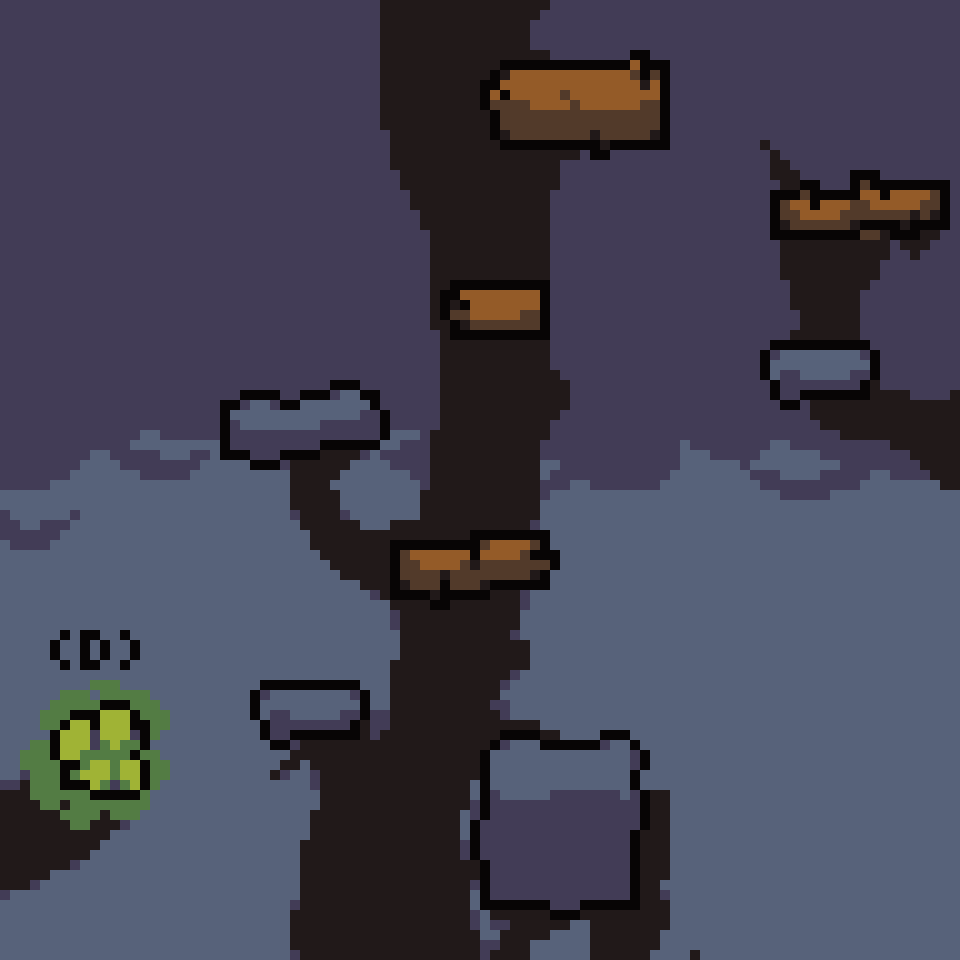
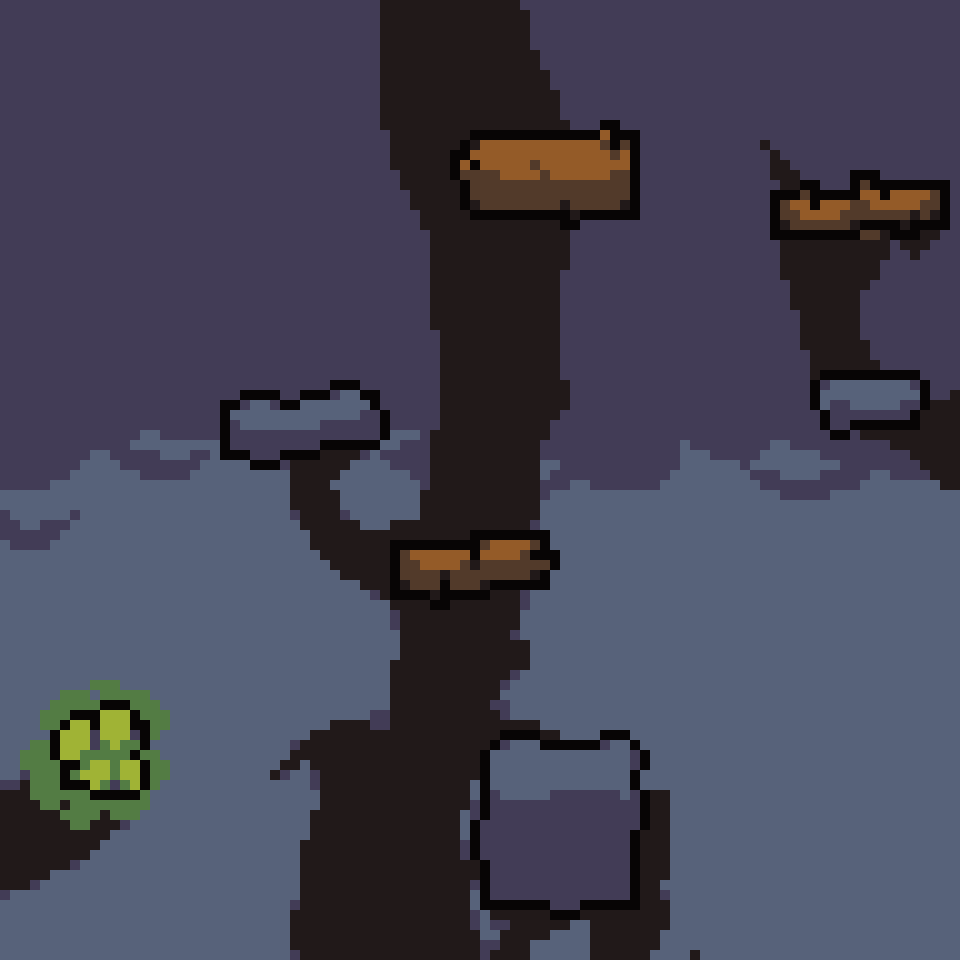
Added more features

diff --git a/main.js b/main.js
@@ -245,24 +245,24 @@ scene("screen2", ({ levelIdx, playerposx }) => {
     const level = addLevel([
         '=                                              =',
         '                                                ',
-        '=                        #######               =',
-        '                         = = = =                ',
-        '=                        = = = =               =',
+        '=                                              =',
         '                                                ',
-        '=                        = = = =               =',
-        '                                                ',
-        '=                                     #######  =',
+        '=                                              =',
+        '                        # # # #                 ',
+        '=                       = = = =                =',
+        '                        = = = =                 ',
+        '=                       = = = =       #######  =',
         '                                      =======   ',
         '=                                              =',
         '                                                ',
         '=                                              =',
-        '                       ###                      ',
-        '=                      ===                     =',
-        '                                      -- -      ',
-        '=                                     == =     =',    
-        '                                      = ==      ',
-        '=           -- - -                             =',
-        '            == = =                              ',
+        '                                                ',
+        '=                                              =',
+        '                                                ',
+        '=                                              =',    
+        '                                        ----    ',
+        '=           -- - -                      = ==   =',
+        '            == = ==                             ',
         '=            =                                 =',
         '                                                ',
         '=                                              =',
@@ -274,9 +274,9 @@ scene("screen2", ({ levelIdx, playerposx }) => {
         '=                                              =',
         '                                                ',
         '=                                              =',
-        '              - --                              ',
-        '=             = ==                             =',
-        '     ##       =                                 ',
+        '                                                ',
+        '=                                              =',
+        '     ##                                         ',
         '=    ==                   -----                =',
         '     ==                  == = =                 ',
         '=                        =    =                =',
@@ -343,15 +343,15 @@ function playercontlv1(x, y, levelIdx) {
 
     // Movement Bindings
     onKeyDown("left", () => {
-        if (!player.isGrounded()) {
+        //if (!player.isGrounded()) {
             player.move(-SPEED, 0)
-        }
+        //}
     })
 
     onKeyDown("right", () => {
-        if (!player.isGrounded()) {
+        //if (!player.isGrounded()) {
             player.move(SPEED, 0)
-        }
+        //}
     }) 
 
     onKeyDown("space", () => {
@@ -414,7 +414,7 @@ function playercontlv2(x, y, levelIdx) {
 
     onLoad(() => {
         player.pos.x = x
-        player.pos.y = 1350
+        player.pos.y = 1370
 
         player.jump(JUMP_FORCE)
         player.play("jump")
@@ -422,15 +422,15 @@ function playercontlv2(x, y, levelIdx) {
 
     // Movement Bindings
     onKeyDown("left", () => {
-        if (!player.isGrounded()) {
+        //if (player.isGrounded()) {
             player.move(-SPEED, 0)
-        }
+        //}
     })
 
     onKeyDown("right", () => {
-        if (!player.isGrounded()) {
-            player.move(SPEED, 0)
-        }
+        //if (player.isGrounded()) {
+        player.move(SPEED, 0)
+        //}
     }) 
 
     onKeyDown("space", () => {
